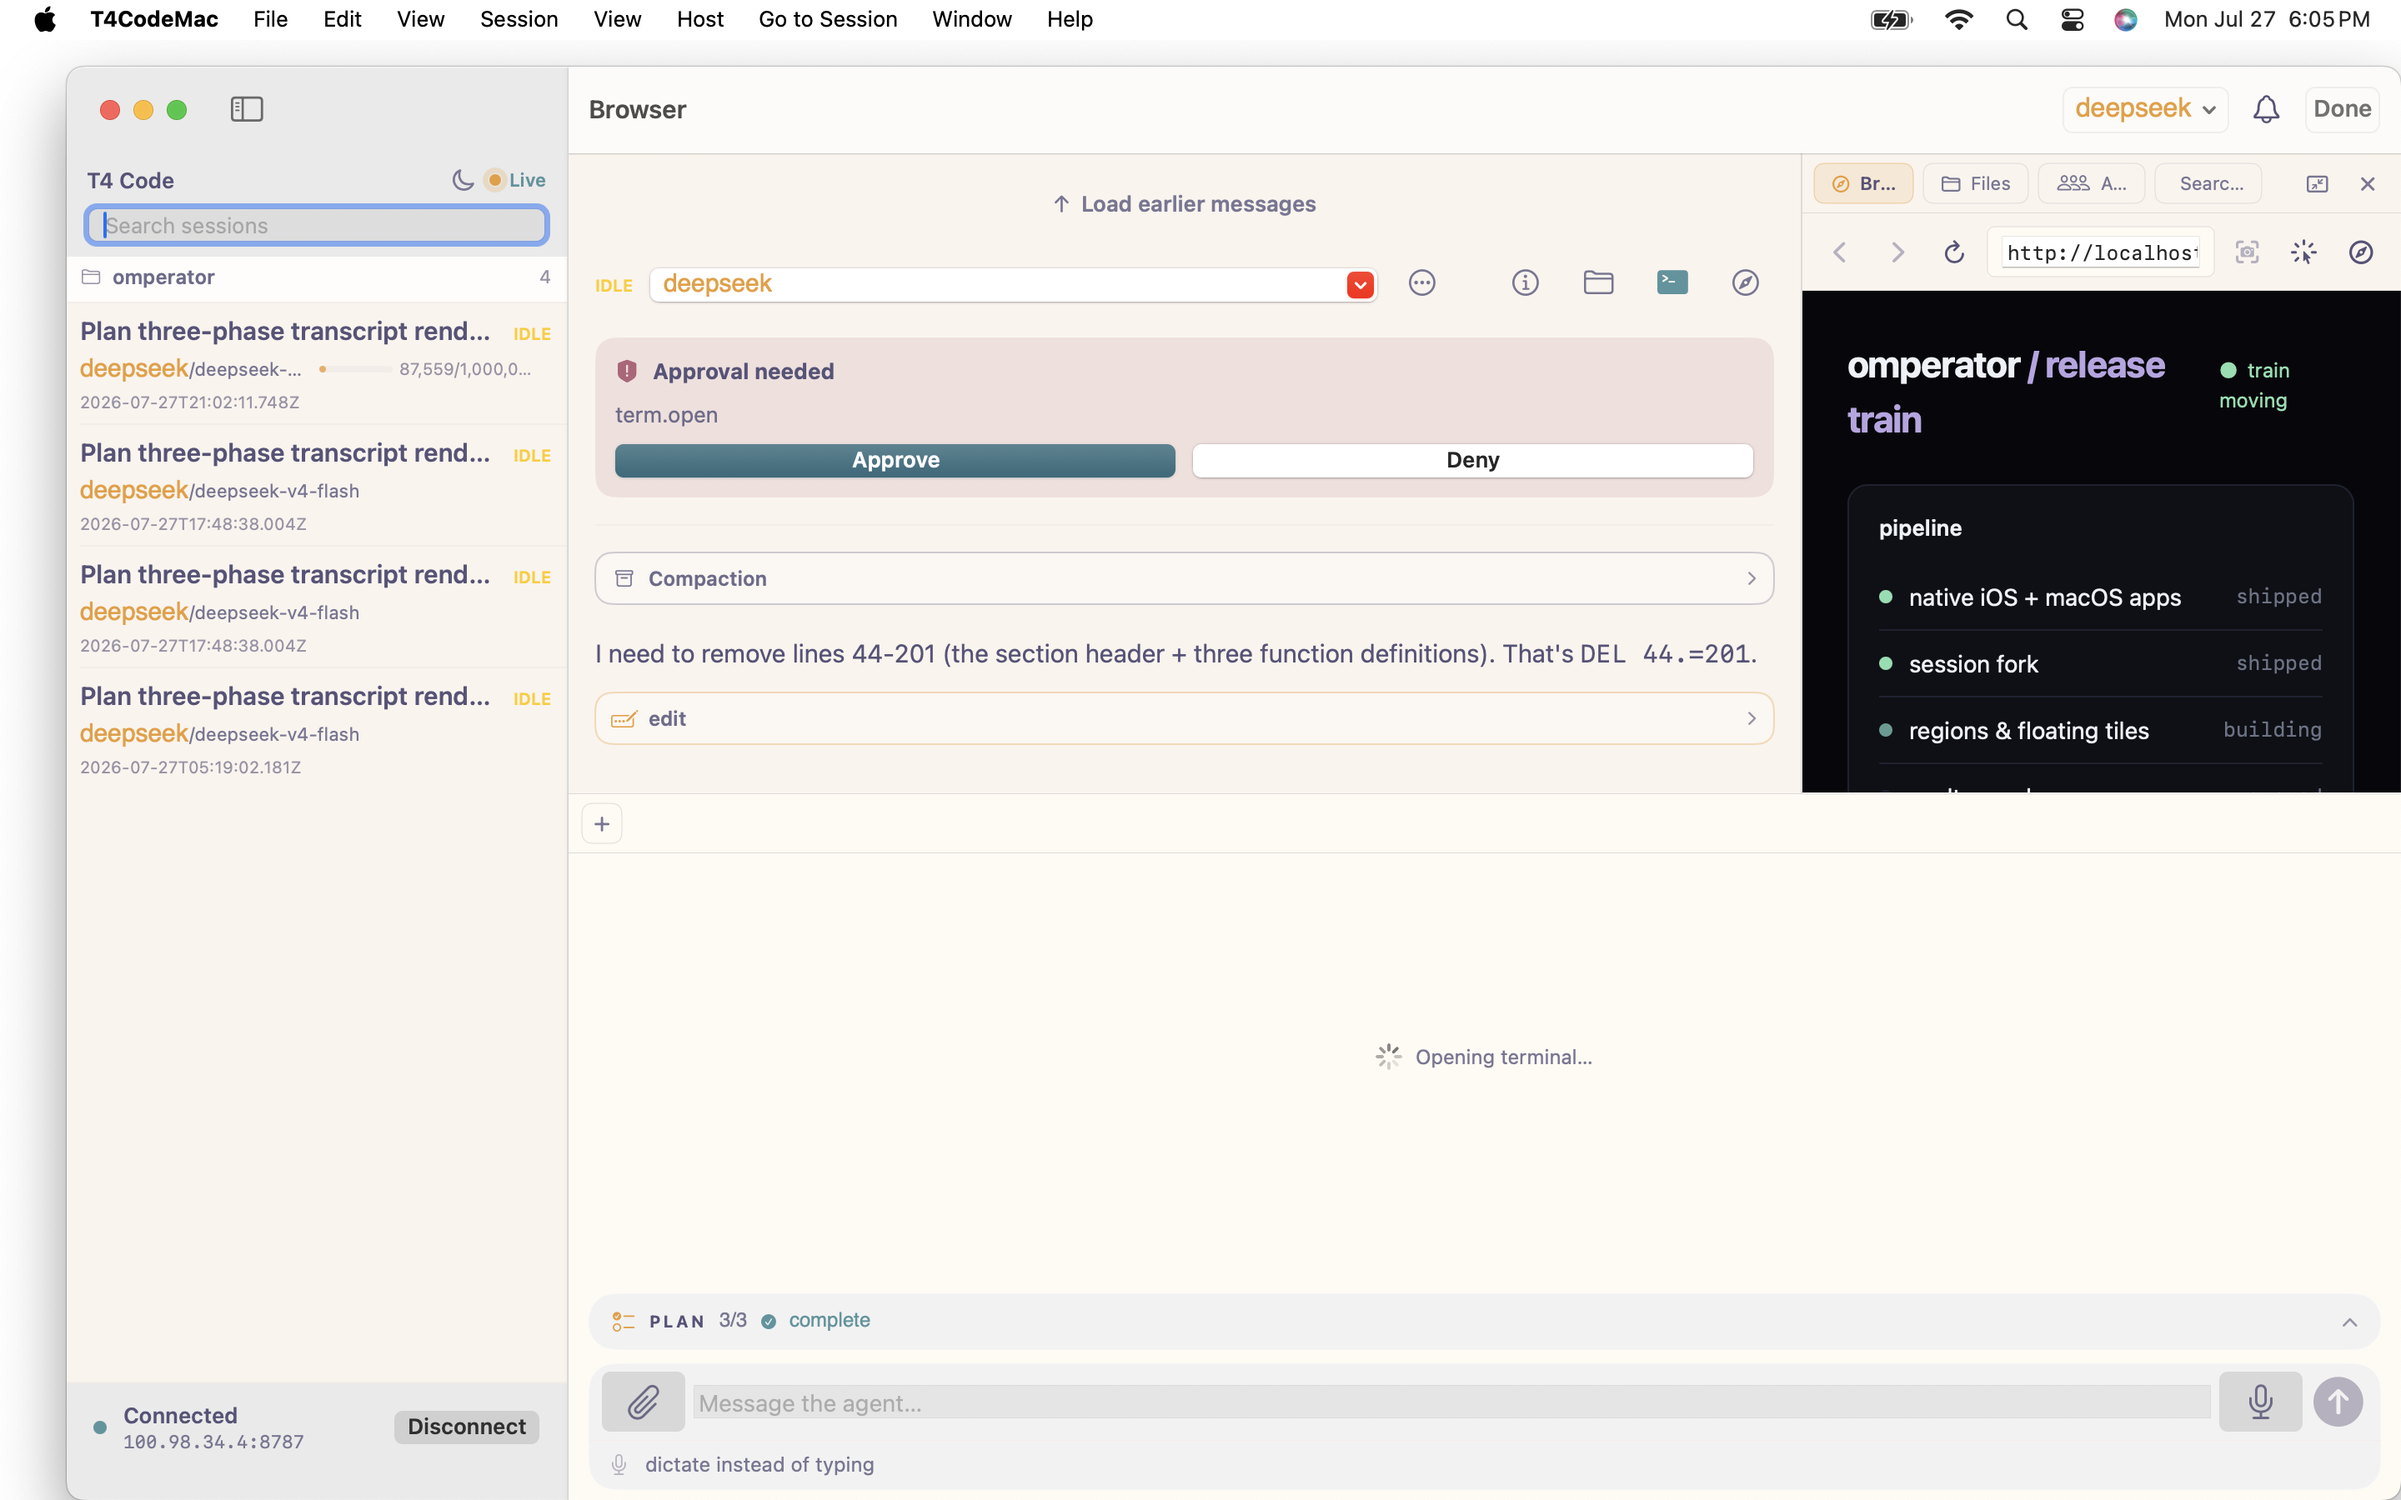
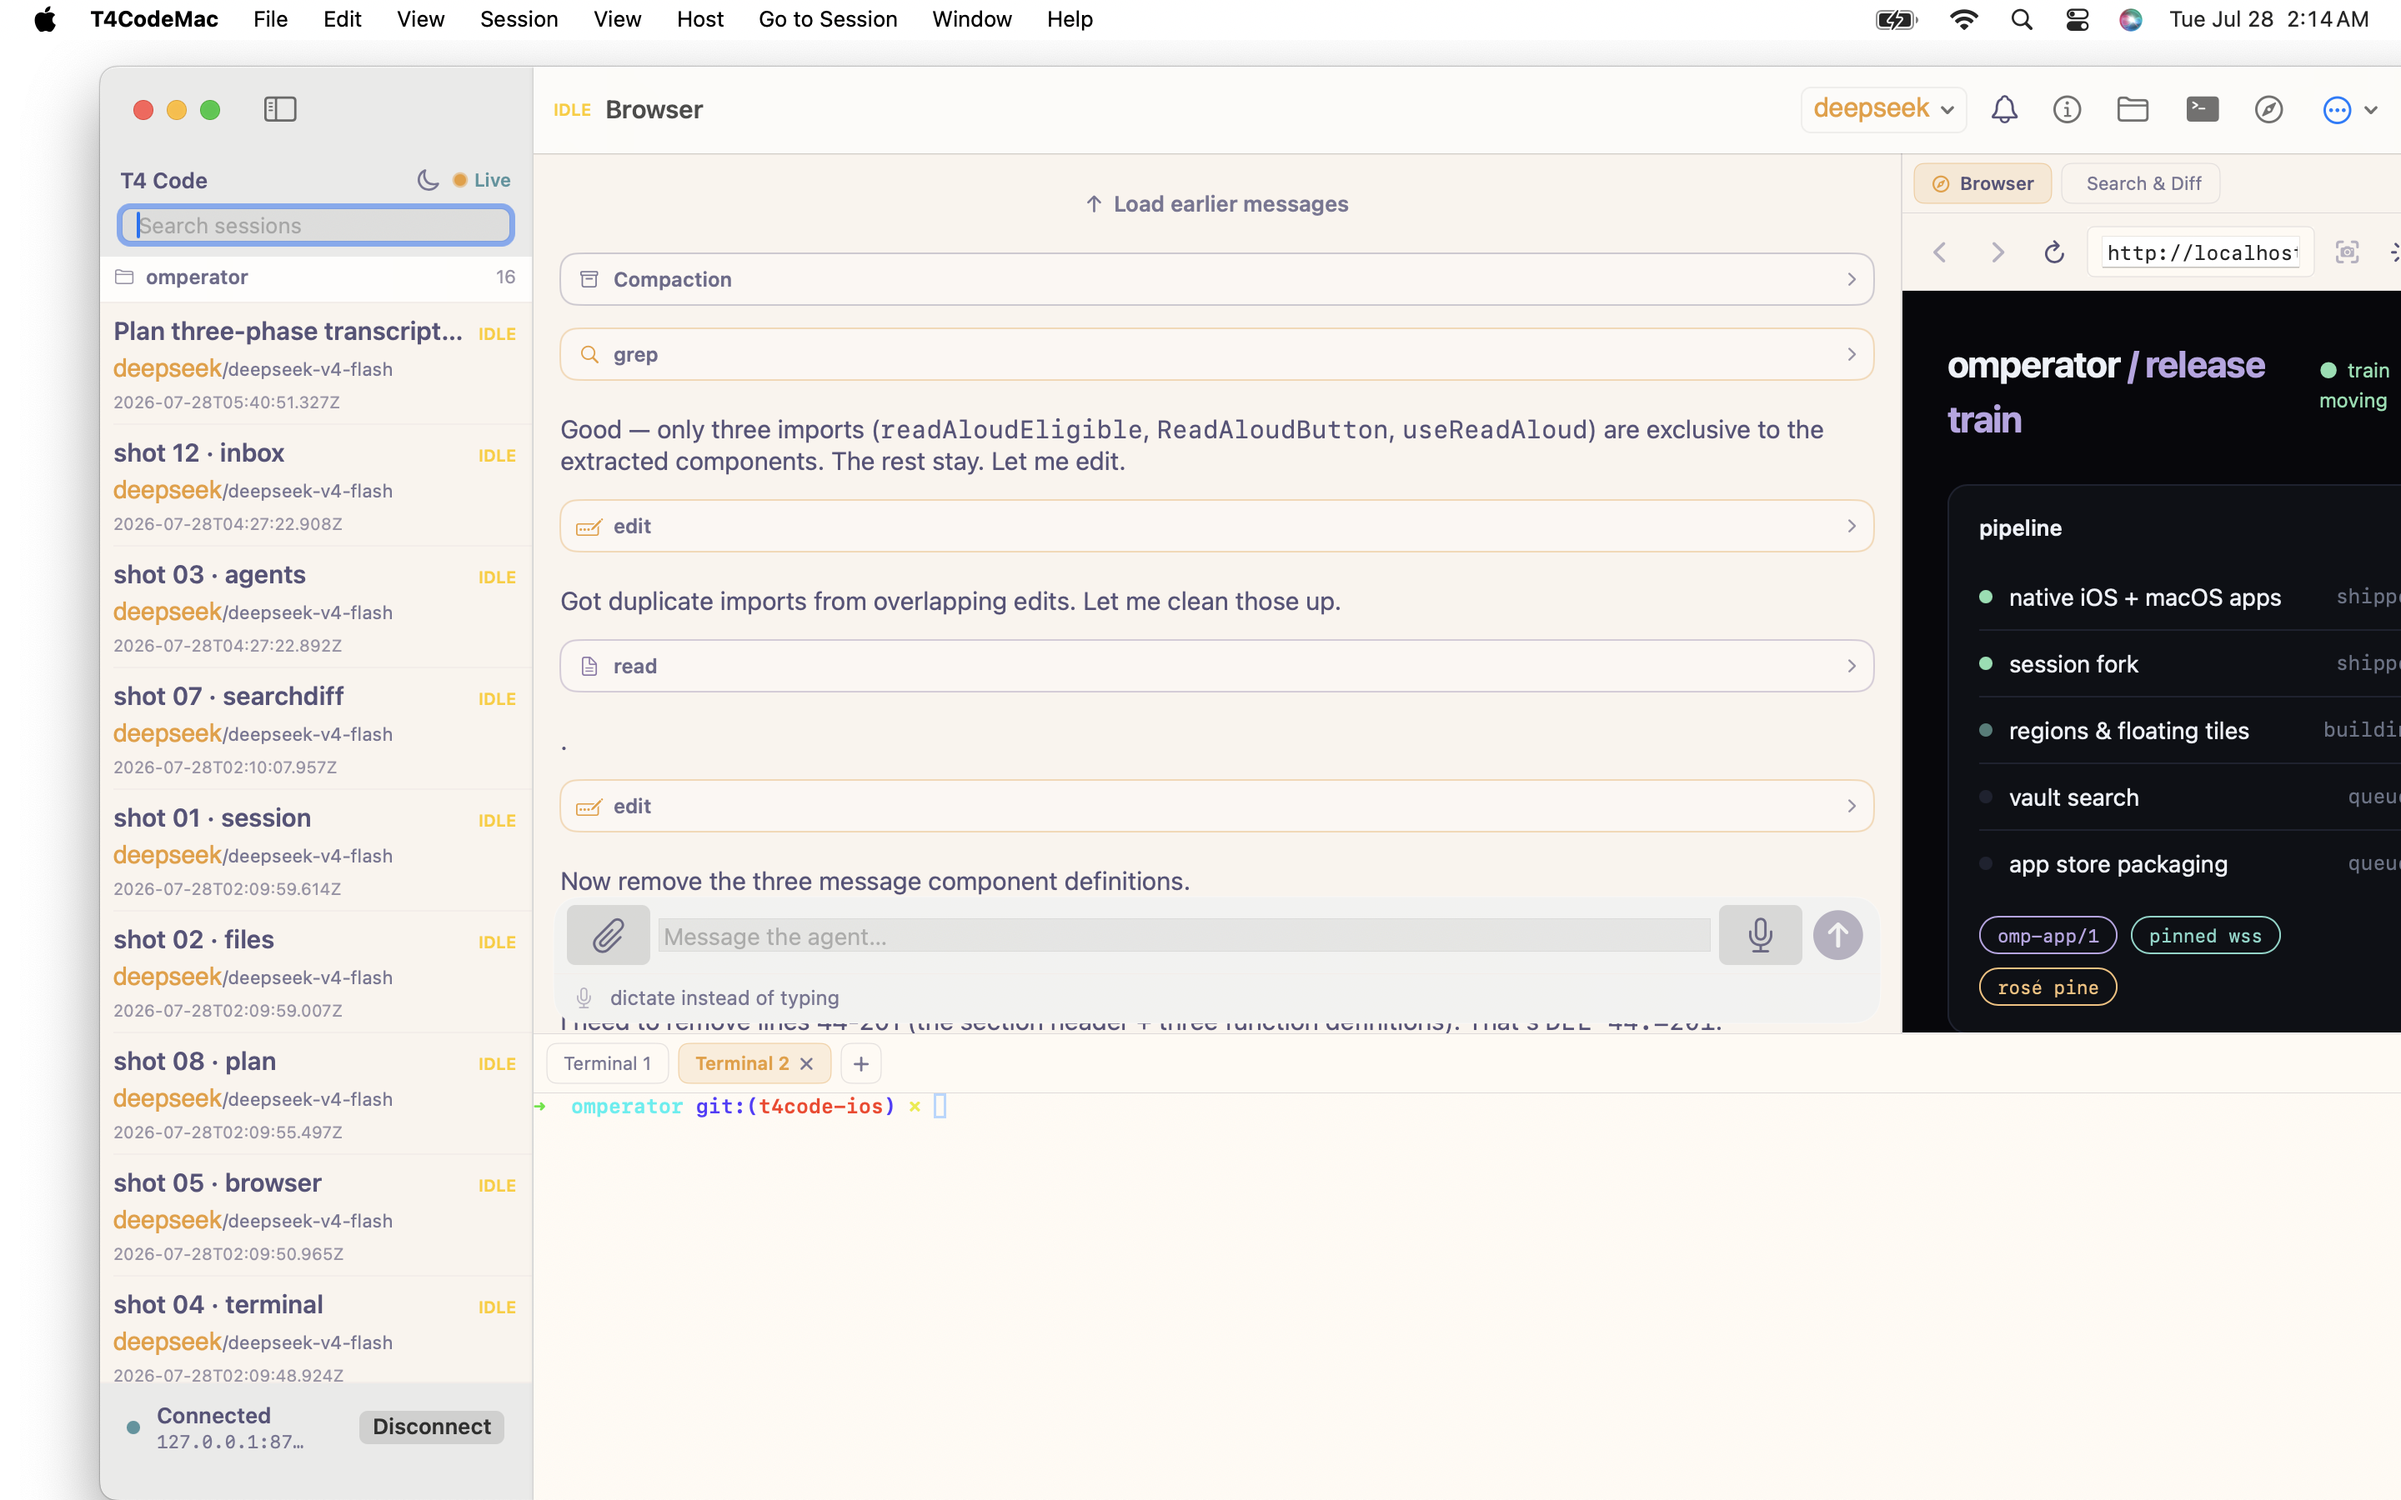
showcase: real-content retakes + TUI section
macOS carousel: files+loaded terminal dock, two live subagents in the
agents pane, browser right dock with the release dashboard, real
files.search results, a real syntax-tinted files.diff patch, and the
full five-section settings sheet — all captured fullscreen against the
local t4-host. New TUI carousel: three real captures driven through
tmux (completed bash turn, mid-stream turn, provider onboarding).

diff --git a/showcase/index.html b/showcase/index.html
@@ -319,16 +319,17 @@ all speaking the same <code>omp-app/1</code> wire to your <code>t4-host</code>, 
 	<button class="car-btn prev" aria-label="previous"></button>
 	<div class="car-track">
 		<figure class="car-slide"><img src="../screenshots/mac-01-session.png" alt="session"><figcaption><b>Session</b> — same codebase, split view, live transcript.</figcaption></figure>
-		<figure class="car-slide"><img src="../screenshots/mac-02-files.png" alt="files"><figcaption><b>Files</b> — workspace browser.</figcaption></figure>
-		<figure class="car-slide"><img src="../screenshots/mac-03-agents.png" alt="agents"><figcaption><b>Agents</b> — subagent roster.</figcaption></figure>
+		<figure class="car-slide"><img src="../screenshots/mac-02-files.png" alt="files"><figcaption><b>Files</b> — workspace browser, with the host PTY docked and loaded below.</figcaption></figure>
+		<figure class="car-slide"><img src="../screenshots/mac-03-agents.png" alt="agents"><figcaption><b>Agents</b> — two parallel subagents, orchestrated live from one prompt.</figcaption></figure>
 		<figure class="car-slide"><img src="../screenshots/mac-04-terminal.png" alt="terminal"><figcaption><b>Terminal</b> — host PTY, docked, live.</figcaption></figure>
-		<figure class="car-slide"><img src="../screenshots/region-hero.png" alt="browser right dock"><figcaption><b>Browser</b> — right dock, live and concurrent with the terminal.</figcaption></figure>
+		<figure class="car-slide"><img src="../screenshots/mac-05-browser.png" alt="browser right dock"><figcaption><b>Browser</b> — right dock, live and concurrent with the agent chat.</figcaption></figure>
 		<figure class="car-slide"><img src="../screenshots/floating-tile.png" alt="floating tile"><figcaption><b>Floating tiles</b> — pop any pane into its own window; Dock Back returns it.</figcaption></figure>
-		<figure class="car-slide"><img src="../screenshots/mac-10-searchdiff.png" alt="search and diff"><figcaption><b>Search & diff</b> — right dock, find any file in the workspace.</figcaption></figure>
+		<figure class="car-slide"><img src="../screenshots/mac-10-search.png" alt="search"><figcaption><b>Search</b> — find any file in the session workspace, live results.</figcaption></figure>
+		<figure class="car-slide"><img src="../screenshots/mac-11-diff.png" alt="diff"><figcaption><b>Diff</b> — the working tree as a syntax-tinted patch, straight from the host.</figcaption></figure>
 		<figure class="car-slide"><img src="../screenshots/mac-06-plan.png" alt="plan"><figcaption><b>Plan panel</b> — phase tracking inline.</figcaption></figure>
 		<figure class="car-slide"><img src="../screenshots/mac-07-ask.png" alt="ask"><figcaption><b>Plan review</b> — approvals with real shortcuts.</figcaption></figure>
 		<figure class="car-slide"><img src="../screenshots/mac-08-usage.png" alt="usage"><figcaption><b>Usage</b> — token and cost pane.</figcaption></figure>
-		<figure class="car-slide"><img src="../screenshots/settings-cards-mac.png" alt="settings"><figcaption><b>Settings</b> — grouped cards: models, behavior, keys, connection, theme.</figcaption></figure>
+		<figure class="car-slide"><img src="../screenshots/mac-12-settings.png" alt="settings"><figcaption><b>Settings</b> — grouped cards: models, behavior, keys, connection, theme.</figcaption></figure>
 		<figure class="car-slide"><img src="../screenshots/mac-10-inbox.png" alt="inbox"><figcaption><b>Inbox</b> — attention queue.</figcaption></figure>
 	</div>
 	<button class="car-btn next" aria-label="next"></button>
@@ -381,6 +382,17 @@ all speaking the same <code>omp-app/1</code> wire to your <code>t4-host</code>, 
 
 <div class="grid" style="margin-top:16px;">
 	<div class="card" style="grid-column: 1 / -1;"><img src="../screenshots/tui-hero.png" alt="t4 TUI, real capture"><div class="body"><span class="tag tag-tui">real capture</span><h3><code>t4</code> — the terminal client</h3><p>The mockup above isn't marketing gloss — it's the actual UI, one-to-one. Session rail, live transcript, composer with history, fork, help. A 62 MB self-contained binary speaking <code>omp-app/1</code> over UDS or pinned wss. <code>packages/t4-cli</code>.</p></div></div>
+</div>
+
+<div class="carousel" data-carousel>
+	<button class="car-btn prev" aria-label="previous"></button>
+	<div class="car-track">
+		<figure class="car-slide"><img src="../screenshots/tui-1.webp" alt="TUI bash tool turn"><figcaption><b>Real turn</b> — bash tool call, output, and summary, captured live from tmux.</figcaption></figure>
+		<figure class="car-slide"><img src="../screenshots/tui-2.webp" alt="TUI streaming turn"><figcaption><b>Streaming</b> — a second turn mid-flight, “Working…” and all.</figcaption></figure>
+		<figure class="car-slide"><img src="../screenshots/tui-3.webp" alt="TUI onboarding"><figcaption><b>Onboarding</b> — provider sign-in wizard, first run.</figcaption></figure>
+	</div>
+	<button class="car-btn next" aria-label="next"></button>
+	<div class="car-dots"></div>
 </div>
 
 <footer>
